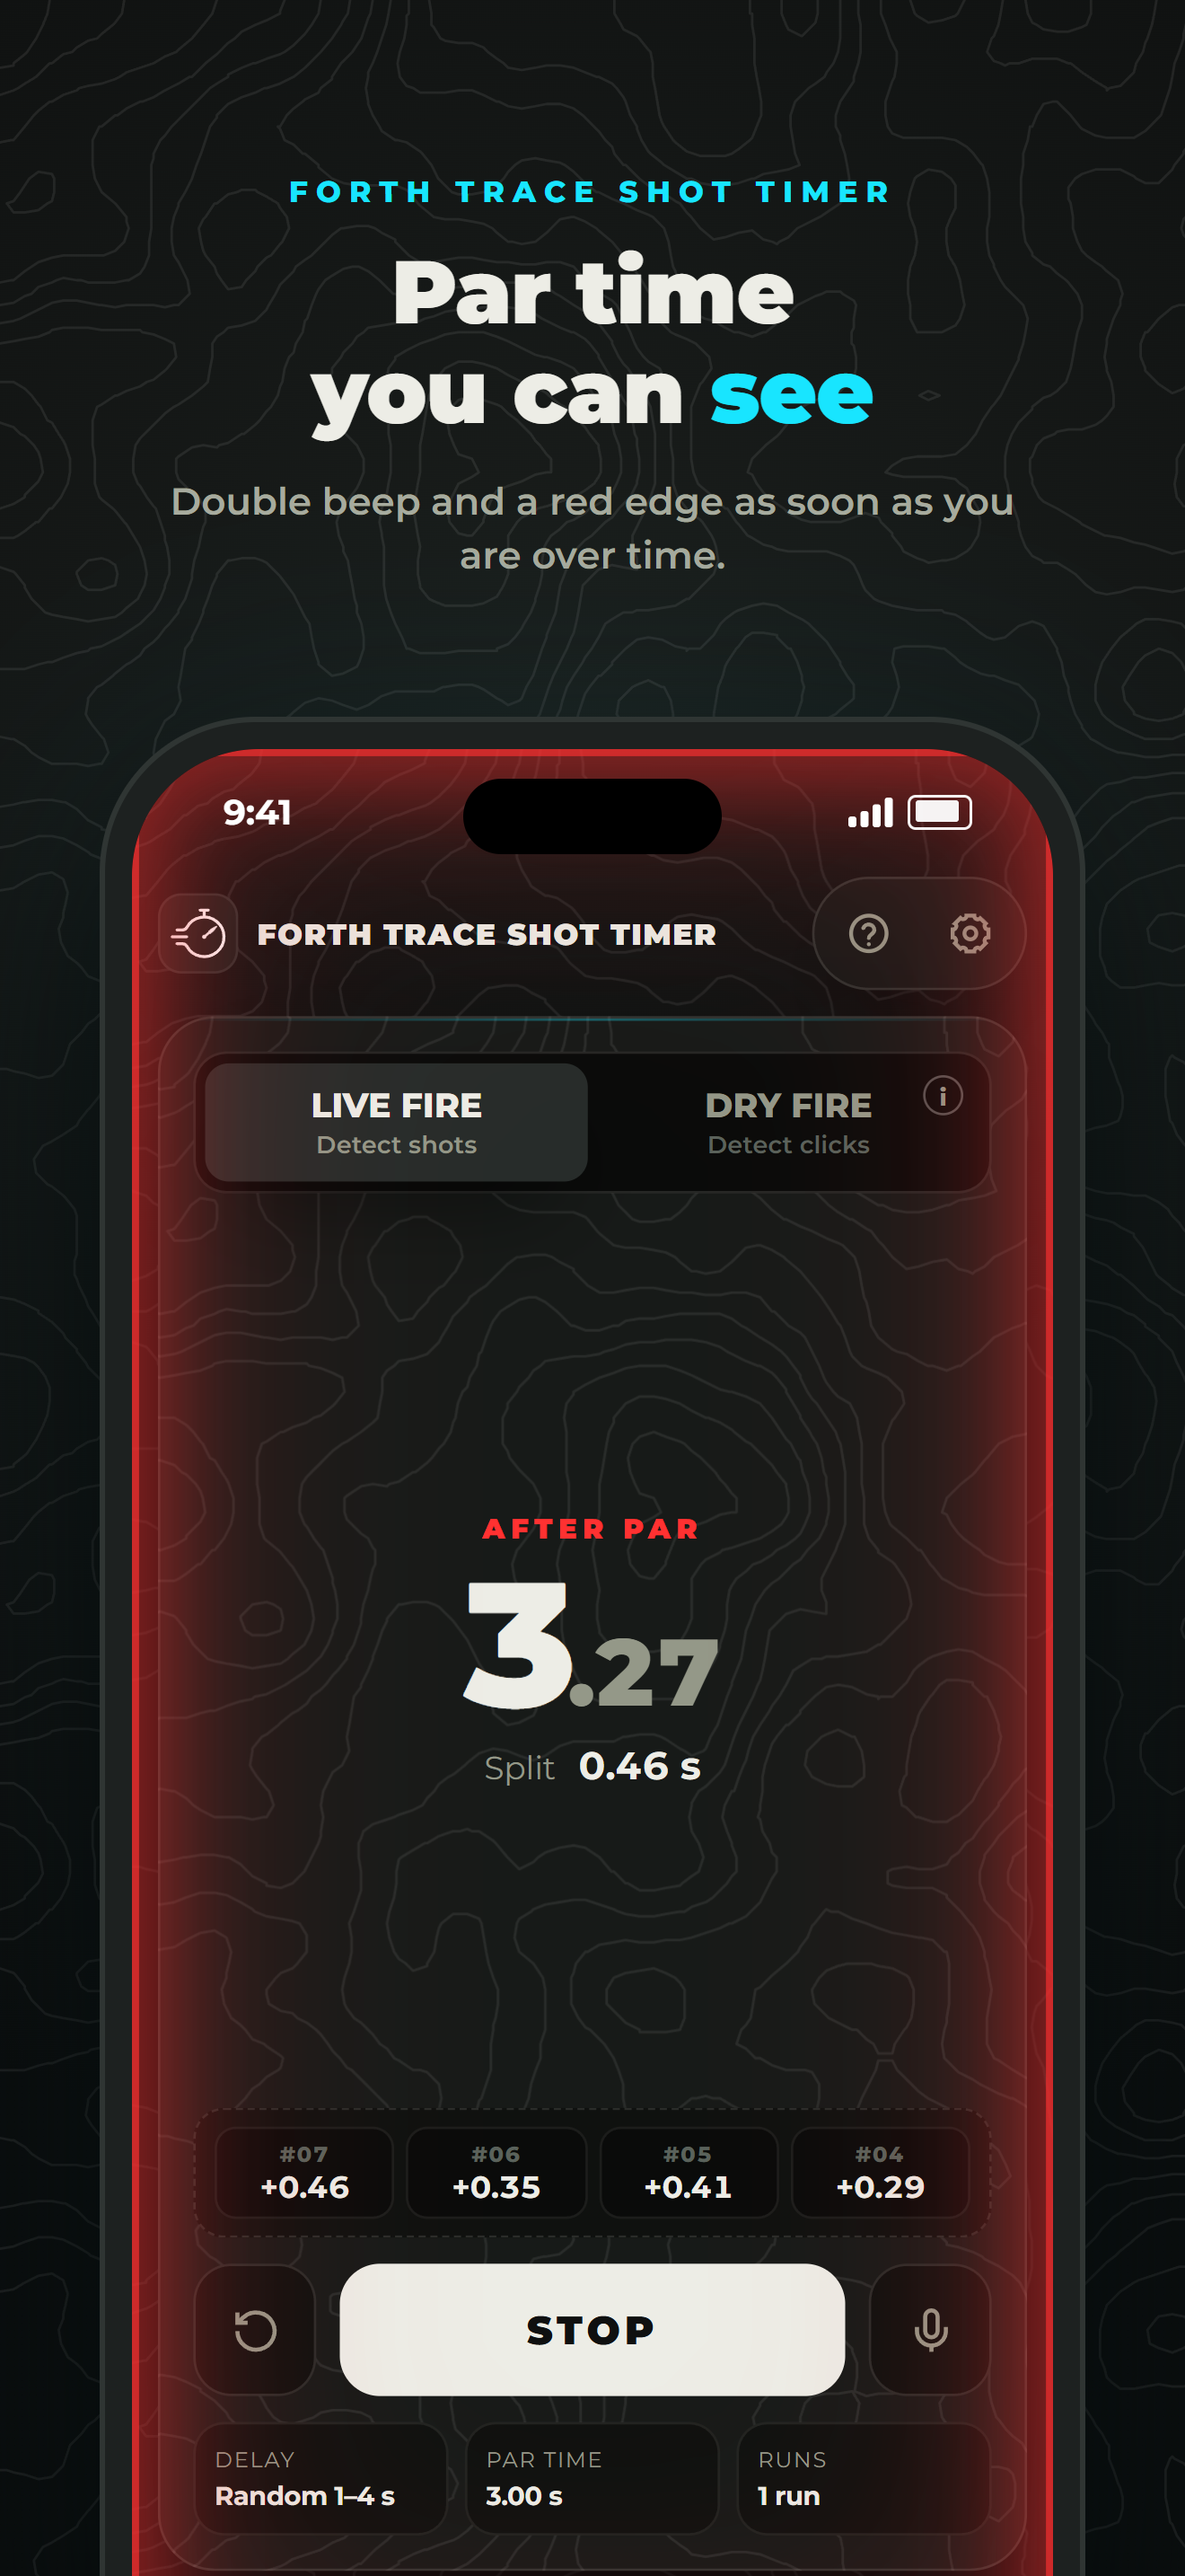
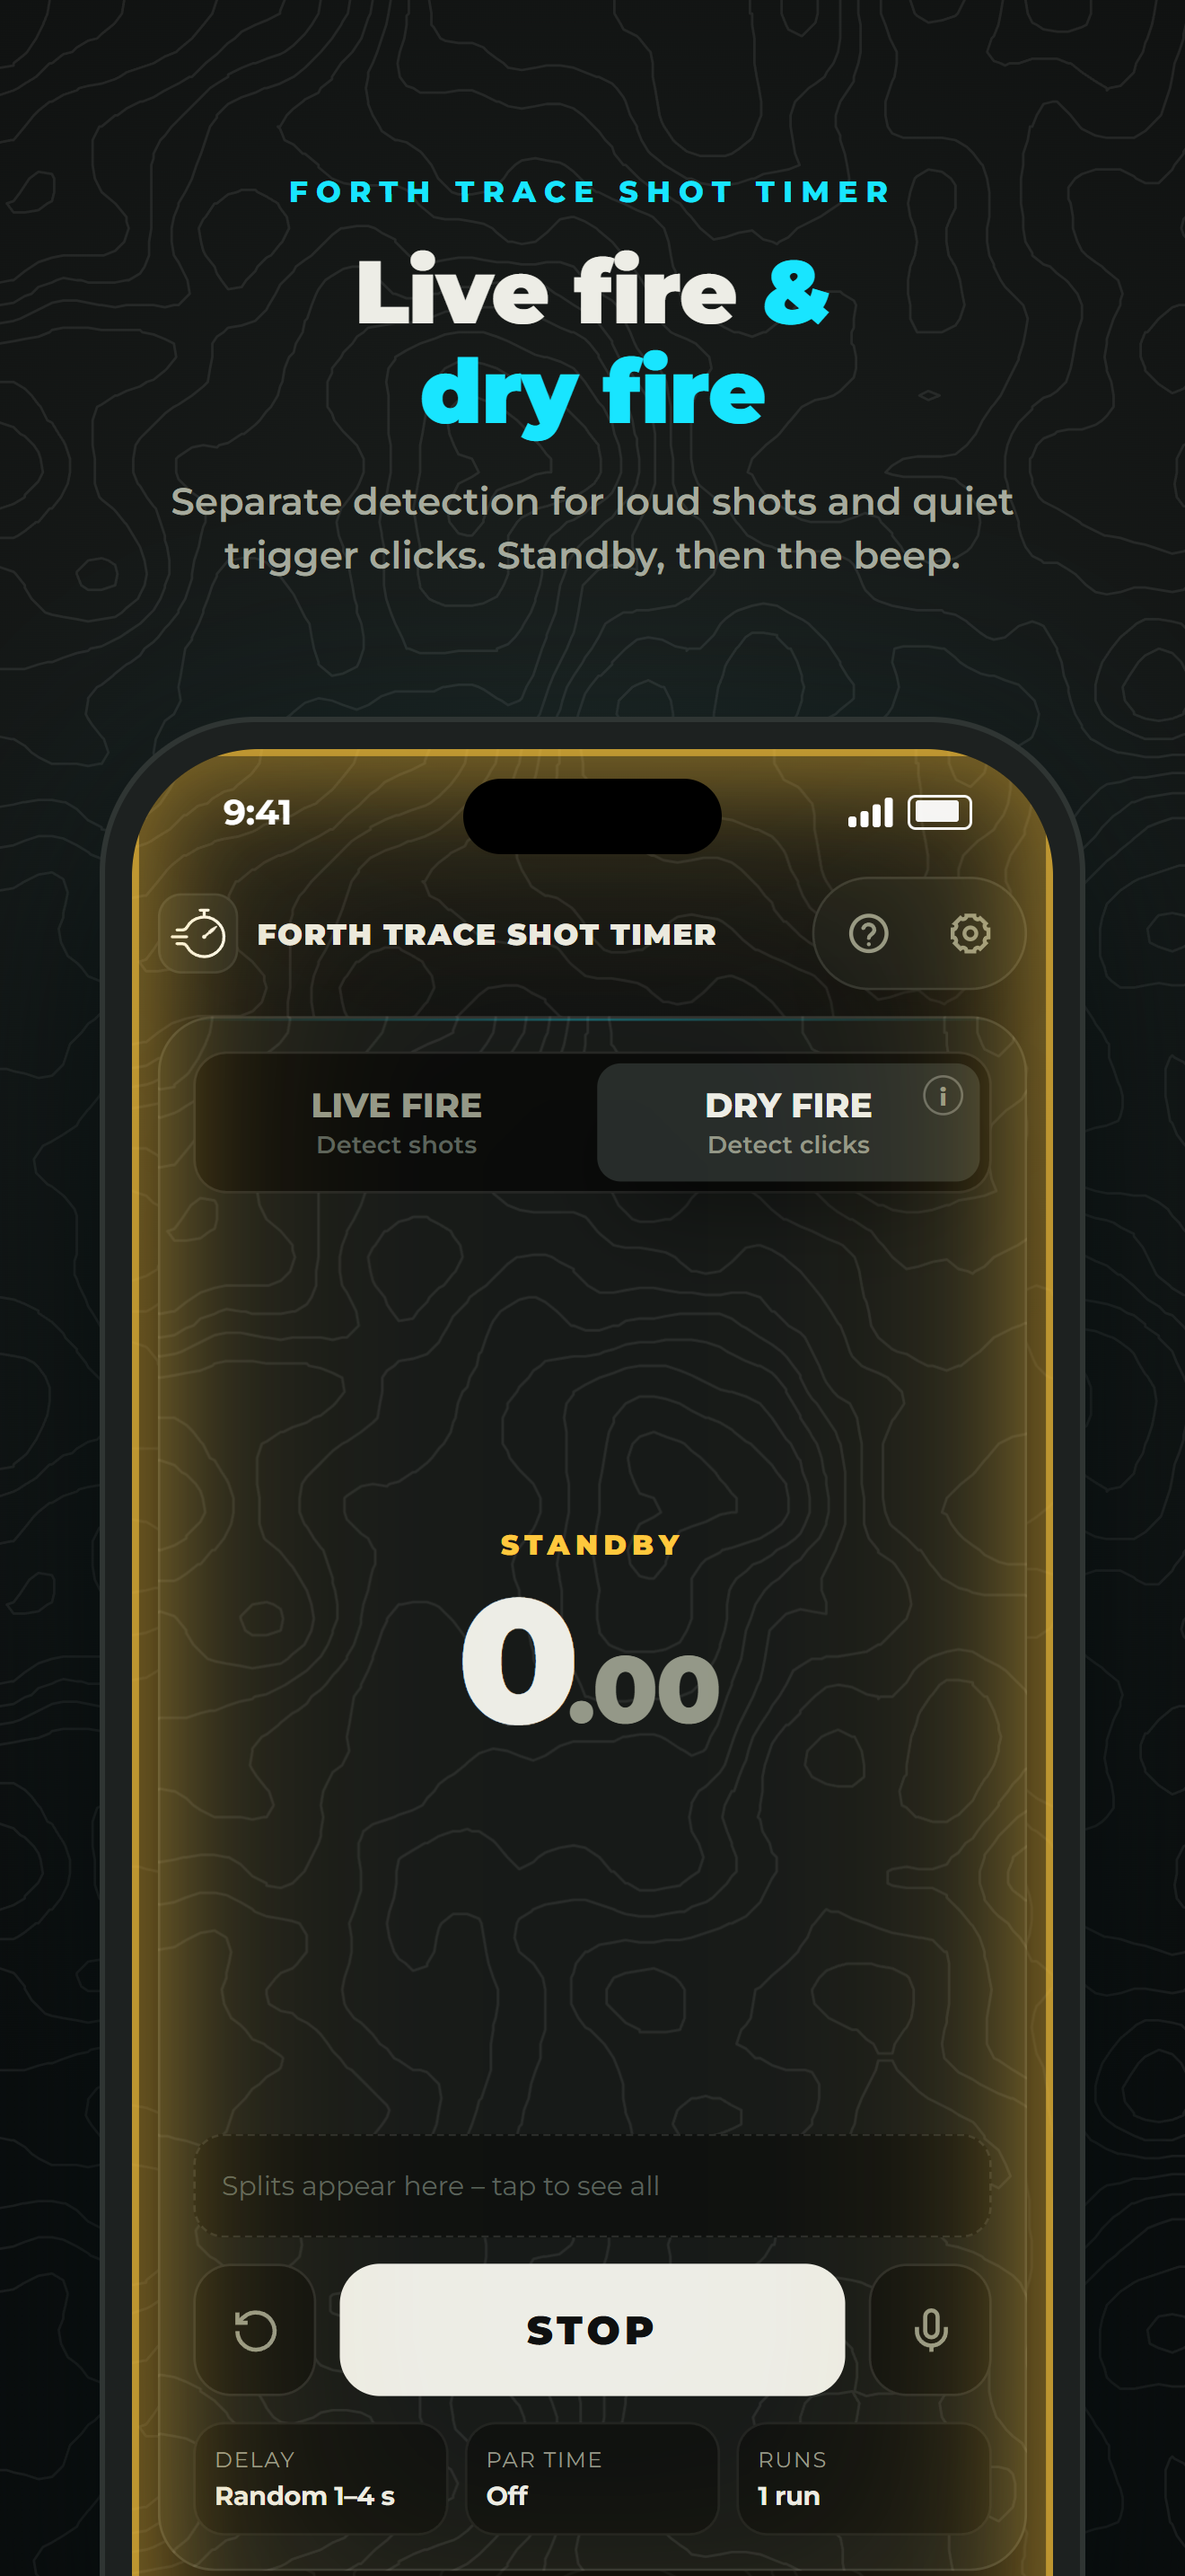
Store-Screenshots: Motiv Standby im Dry-Fire-Modus
Neues zweites Motiv 'Live fire & dry fire' mit gelbem Standby-Rand; sechs Bilder statt fünf.

diff --git a/store/shots.html b/store/shots.html
@@ -45,25 +45,18 @@
   const SHOT = Number(q.get('shot') || 1);
   const LANG = q.get('lang') || 'de';
 
-  const TEXT = {
-    de: [
-      ['Jeder Schuss.<br><em>Jeder Split.</em>', 'Draw, Splits und Gesamtzeit per Mikrofon – Live Fire und Dry Fire.'],
-      ['Par Time,<br>die du <em>siehst</em>', 'Doppelpiep und roter Rand, sobald du über der Zeit bist.'],
-      ['Matches mit<br><em>Gesamtwertung</em>', 'Beliebig viele Stages, Hit Factor und Match-Punkte für alle Schützen.'],
-      ['Hit Factor<br><em>live</em> am Stand', 'Zeit und Trefferzonen eintragen – die Wertung rechnet sofort mit.'],
-      ['Dein Training<br><em>im Verlauf</em>', 'Jeder Durchgang wird gespeichert. Ohne Konto, alles bleibt auf dem iPhone.']
-    ],
-    en: [
-      ['Every shot.<br><em>Every split.</em>', 'Draw, splits and total time via the microphone – live fire and dry fire.'],
-      ['Par time<br>you can <em>see</em>', 'Double beep and a red edge as soon as you are over time.'],
-      ['Matches with<br><em>overall results</em>', 'As many stages as you like, Hit Factor and match points for every shooter.'],
-      ['Hit Factor<br><em>live</em> at the range', 'Enter time and hit zones – the results update instantly.'],
-      ['Your training<br><em>history</em>', 'Every run is saved. No account, everything stays on your iPhone.']
-    ]
-  }.en; // Überschriften immer auf Englisch; die App im Rahmen zeigt die jeweilige Sprache.
-  document.getElementById('title').innerHTML = TEXT[SHOT - 1][0];
-  document.getElementById('sub').textContent = TEXT[SHOT - 1][1];
-
+  // Reihenfolge der Motive im Store. Überschriften immer auf Englisch.
+  const MOTIFS = [
+    ['go', 'Every shot.<br><em>Every split.</em>', 'Draw, splits and total time via the microphone – at the range or at home.'],
+    ['dry', 'Live fire <em>&amp;</em><br><em>dry fire</em>', 'Separate detection for loud shots and quiet trigger clicks. Standby, then the beep.'],
+    ['par', 'Par time<br>you can <em>see</em>', 'Double beep and a red edge as soon as you are over time.'],
+    ['match', 'Matches with<br><em>overall results</em>', 'As many stages as you like, Hit Factor and match points for every shooter.'],
+    ['stage', 'Hit Factor<br><em>live</em> at the range', 'Enter time and hit zones – the results update instantly.'],
+    ['history', 'Your training<br><em>history</em>', 'Every run is saved. No account, everything stays on your iPhone.']
+  ];
+  const [KEY, TITLE, SUB] = MOTIFS[SHOT - 1];
+  document.getElementById('title').innerHTML = TITLE;
+  document.getElementById('sub').textContent = SUB;
   /* ---------- Beispieldaten im Speicher der App ---------- */
   const day = (d, h) => new Date(Date.now() - d * 864e5 - h * 36e5).toISOString();
   const entry = (n, pf, time, a, c, d, m) => ({ id: n + Math.random().toString(36).slice(2, 6), shooterId: 's-' + n, name: n, pf, time, a, c, d, m, ns: 0, pe: 0 });
@@ -81,7 +74,7 @@
   }];
   const runs = [[0, 3, 'live', 2.31, 6, 1.08, .19], [0, 5, 'dry', 1.62, 4, .94, .21], [1, 2, 'live', 3.05, 8, 1.21, .18], [2, 4, 'live', 2.47, 6, 1.15, .2], [3, 1, 'dry', 1.88, 5, .99, .22], [5, 3, 'live', 2.74, 6, 1.19, .23]]
     .map(([d, h, mode, total, count, first, best], i) => ({ id: 'r' + i, at: day(d, h), mode, par: 0, delay: 'random', total, count, first, best, shots: [] }));
-  localStorage.setItem('shot-timer-settings-v1', JSON.stringify({ lang: LANG, langChosen: true, theme: 'dark', mode: 'live', delay: 'random', delayRandom: true, par: SHOT === 2 ? 3 : 0, reps: 1, volume: .65, vibration: true, drySeen: true }));
+  localStorage.setItem('shot-timer-settings-v1', JSON.stringify({ lang: LANG, langChosen: true, theme: 'dark', mode: KEY === 'dry' ? 'dry' : 'live', delay: 'random', delayRandom: true, par: KEY === 'par' ? 3 : 0, reps: 1, volume: .65, vibration: true, drySeen: true }));
   localStorage.setItem('shot-timer-matches-v1', JSON.stringify(matches));
   localStorage.setItem('shot-timer-history-v2', JSON.stringify(runs));
   localStorage.setItem('shot-timer-shooters-v1', JSON.stringify(NAMES.map(n => ({ id: 's-' + n, name: n, pf: n === 'Jonas' ? 'major' : 'minor' }))));
@@ -113,15 +106,22 @@
       $('#lastSplit').innerHTML = tr('Split') + ' <strong>' + num(splits[splits.length - 1]) + ' s</strong>';
     };
     await wait(400);
-    if (SHOT === 1) timer(1.84, 'go', tr('GO'), [1.12, .24, .22, .26]);
-    if (SHOT === 2) timer(3.27, 'par', tr('NACH PAR'), [1.18, .27, .31, .29, .41, .35, .46]);
-    if (SHOT === 3) {
+    if (KEY === 'go') timer(1.84, 'go', tr('GO'), [1.12, .24, .22, .26]);
+    if (KEY === 'dry') {
+      // Standby im Dry-Fire-Modus: gelber Rand, Zeit steht noch auf null.
+      d.documentElement.dataset.run = 'standby';
+      $('#stateLabel').textContent = tr('STANDBY');
+      $('#startBtn').textContent = tr('STOP');
+      $('#startBtn').classList.add('stop');
+    }
+    if (KEY === 'par') timer(3.27, 'par', tr('NACH PAR'), [1.18, .27, .31, .29, .41, .35, .46]);
+    if (KEY === 'match') {
       $('#scoreBtn').click(); await wait(150); $('[data-match="m1"]').click(); await wait(150);
       // Die Gesamtwertung ist das Motiv: ganz nach unten scrollen.
       const sc = $('#matchPage .score-scroll'); sc.scrollTop = sc.scrollHeight;
     }
-    if (SHOT === 4) { $('#scoreBtn').click(); await wait(150); $('[data-match="m1"]').click(); await wait(150); $('[data-stage="st2"]').click(); }
-    if (SHOT === 5) $('#historyBtn').click();
+    if (KEY === 'stage') { $('#scoreBtn').click(); await wait(150); $('[data-match="m1"]').click(); await wait(150); $('[data-stage="st2"]').click(); }
+    if (KEY === 'history') $('#historyBtn').click();
     await wait(500);
     await d.fonts.ready;
     window.READY = true;

diff --git a/store/app-store.md b/store/app-store.md
@@ -17,7 +17,7 @@ Grenzen von Apple in Klammern; alle Texte unten halten sie ein.
 | Support-URL | https://jaegerii.github.io/shot-timer-app/support.html |
 | Marketing-URL | https://www.instagram.com/wax_meils/ *(optional)* |
 | Copyright | © 2026 Maximilian Weil |
-| Screenshots | `store/screenshots/en/1–5.png` (1320 × 2868) in der Hauptsprache hochladen; Apple verwendet sie für alle Sprachen |
+| Screenshots | `store/screenshots/en/1–6.png` (1320 × 2868) in der Hauptsprache hochladen; Apple verwendet sie für alle Sprachen |
 | App-Datenschutz | Keine Daten erfasst („Data Not Collected“) |
 
 ---
